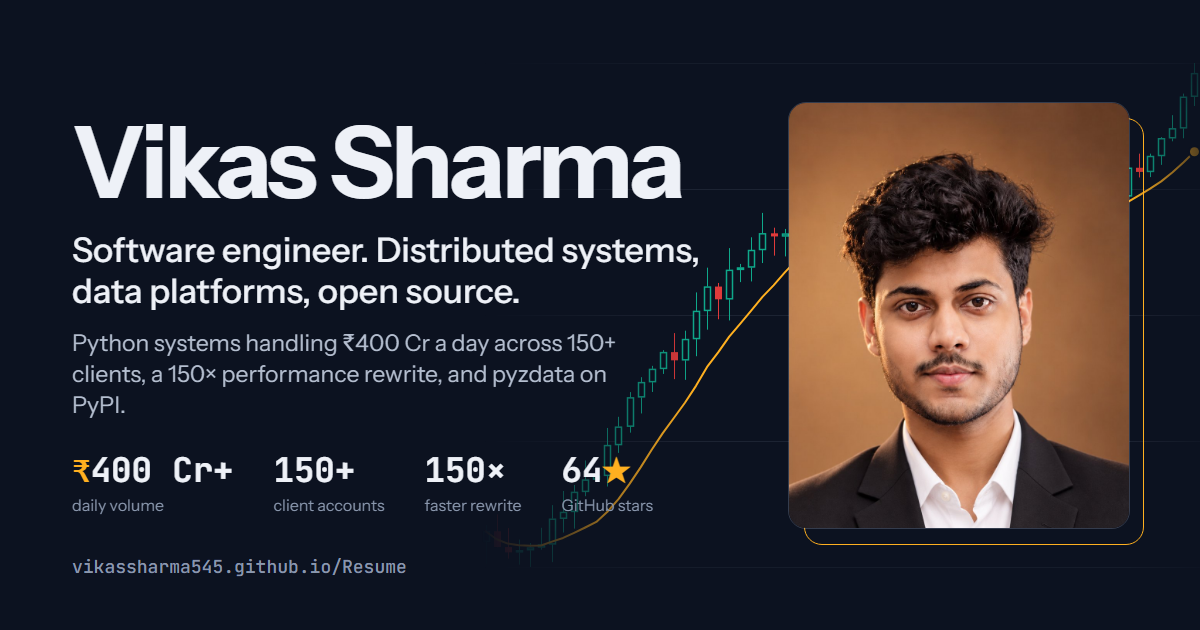
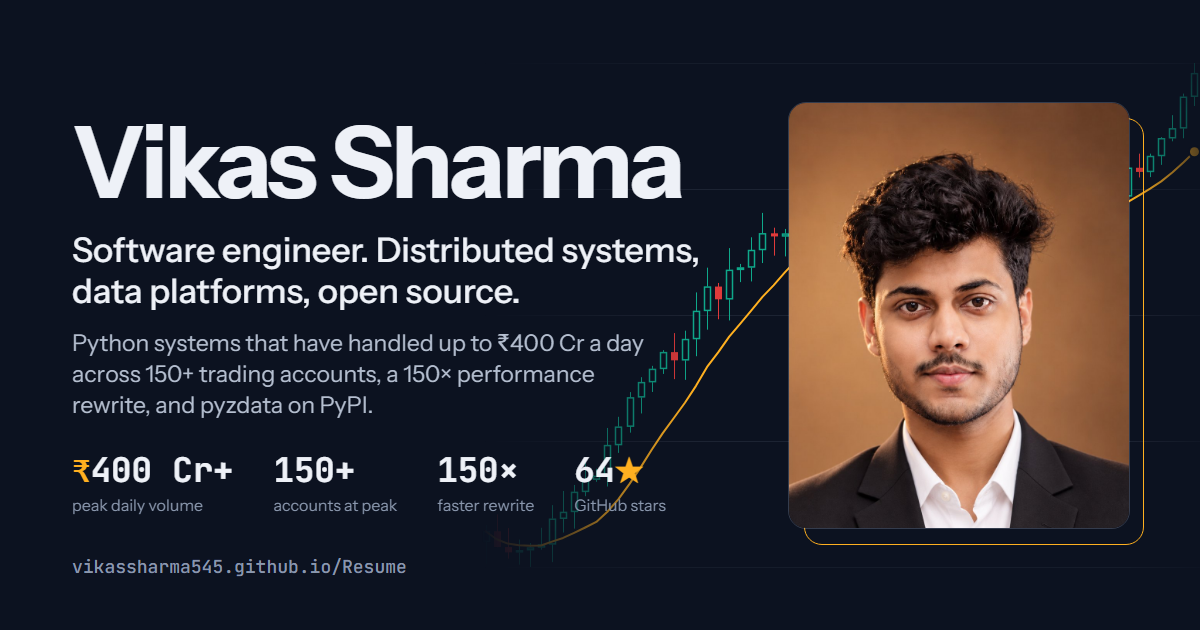
Review pass: peak wording in the share image, MySQL, Socket.IO and rate limiting in the stack and résumé skills

Changed region(s): [[0.0617, 0.5127, 0.555, 0.6635], [0.2158, 0.7238, 0.555, 0.8143], [0.0617, 0.7841, 0.185, 0.8143]]

diff --git a/index.html b/index.html
@@ -418,10 +418,10 @@
 
         <dl class="stack">
           <div class="stack-row"><dt>Languages</dt><dd><ul class="chips"><li>Python</li><li>C++</li><li>SQL</li><li>Bash</li></ul></dd></div>
-          <div class="stack-row"><dt>Backend and web</dt><dd><ul class="chips"><li>REST APIs</li><li>WebSocket</li><li>requests</li><li>Streamlit</li><li>pytest</li><li>Selenium</li></ul></dd></div>
+          <div class="stack-row"><dt>Backend and web</dt><dd><ul class="chips"><li>REST APIs</li><li>WebSocket</li><li>Socket.IO</li><li>requests</li><li>Streamlit</li><li>pytest</li><li>Selenium</li></ul></dd></div>
           <div class="stack-row"><dt>Apps and interfaces</dt><dd><ul class="chips"><li>Streamlit apps</li><li>Plotly dashboards</li><li>Tkinter dialogs</li><li>Windows context menus</li><li>File associations</li><li>Telegram bots</li></ul></dd></div>
-          <div class="stack-row"><dt>Distributed systems</dt><dd><ul class="chips"><li>ZeroMQ</li><li>Microservices</li><li>Message passing</li><li>State machines</li><li>AsyncIO</li><li>Multiprocessing</li><li>Multithreading</li><li>FileLock orchestration</li></ul></dd></div>
-          <div class="stack-row"><dt>Data engineering</dt><dd><ul class="chips"><li>NumPy</li><li>Polars</li><li>Pandas</li><li>DuckDB</li><li>Parquet</li><li>Numba</li><li>Dask</li><li>ETL pipelines</li><li>Plotly</li></ul></dd></div>
+          <div class="stack-row"><dt>Distributed systems</dt><dd><ul class="chips"><li>ZeroMQ</li><li>Microservices</li><li>Message passing</li><li>State machines</li><li>AsyncIO</li><li>Multiprocessing</li><li>Multithreading</li><li>Rate limiting</li><li>FileLock orchestration</li></ul></dd></div>
+          <div class="stack-row"><dt>Data engineering</dt><dd><ul class="chips"><li>NumPy</li><li>Polars</li><li>Pandas</li><li>DuckDB</li><li>MySQL</li><li>Parquet</li><li>Numba</li><li>Dask</li><li>ETL pipelines</li><li>Plotly</li></ul></dd></div>
           <div class="stack-row"><dt>Cloud and DevOps</dt><dd><ul class="chips"><li>AWS EC2</li><li>Docker</li><li>Linux</li><li>Git</li><li>GitHub Actions</li><li>CI/CD</li><li>PyPI publishing</li><li>Sigstore</li></ul></dd></div>
           <div class="stack-row"><dt>Trading domain</dt><dd><ul class="chips"><li>Zerodha Kite</li><li>Interactive Brokers TWS</li><li>ib_async</li><li>XTS</li><li>IBC</li><li>NSE</li><li>BSE</li><li>NFO</li><li>MCX</li><li>CBOE</li><li>CME</li></ul></dd></div>
           <div class="stack-row"><dt>Education</dt><dd class="plain"><strong>BSc Computer Science</strong>, Shaheed Sukhdev College of Business Studies, University of Delhi, <span class="muted">2020 to 2023</span></dd></div>

diff --git a/tools/og.html b/tools/og.html
@@ -30,10 +30,10 @@
     <div class="copy">
       <p class="name">Vikas Sharma</p>
       <p class="role">Software engineer. Distributed systems, data platforms, open source.</p>
-      <p class="bio">Python systems handling ₹400 Cr a day across 150+ clients, a 150× performance rewrite, and pyzdata on PyPI.</p>
+      <p class="bio">Python systems that have handled up to ₹400 Cr a day across 150+ trading accounts, a 150× performance rewrite, and pyzdata on PyPI.</p>
       <div class="nums">
-        <div><b><span class="amber">₹</span>400 Cr+</b><span class="lbl">daily volume</span></div>
-        <div><b>150+</b><span class="lbl">client accounts</span></div>
+        <div><b><span class="amber">₹</span>400 Cr+</b><span class="lbl">peak daily volume</span></div>
+        <div><b>150+</b><span class="lbl">accounts at peak</span></div>
         <div><b>150×</b><span class="lbl">faster rewrite</span></div>
         <div><b>64<span class="amber">★</span></b><span class="lbl">GitHub stars</span></div>
       </div>
